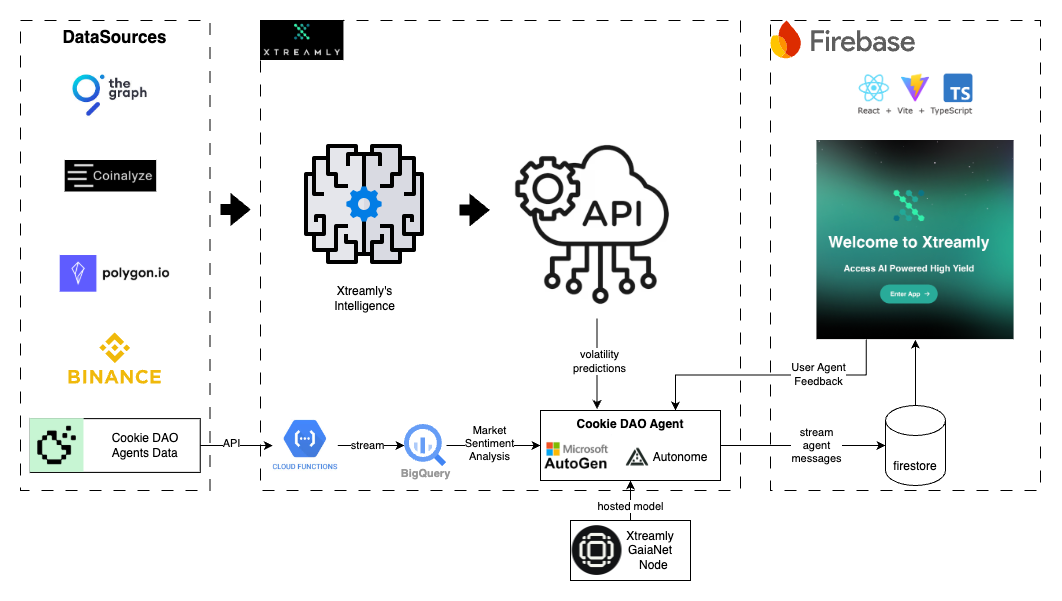
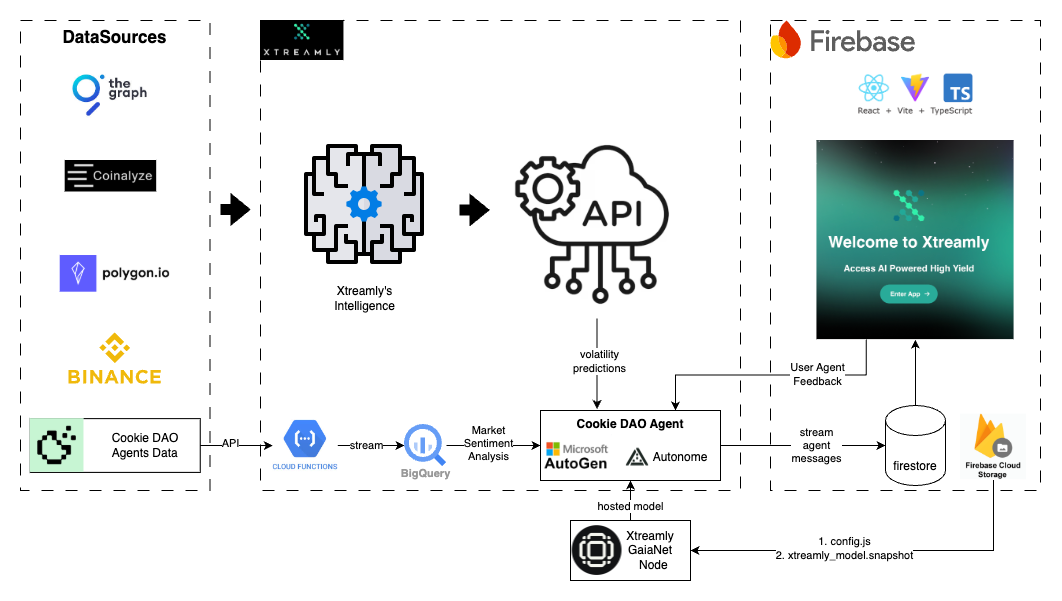
Add gaia knowledge for node

diff --git a/README.md b/README.md
@@ -69,6 +69,9 @@ Read more about how our agents operate here: [Agent Policy](documentation%2FProj
    ```
    Visit ui: http://localhost:5173/
 
+
+3. Setting up Gaia visit: [README.md](gaia%2FREADME.md)
+
 ## ⚙ Configuration
 
 - **CORS Middleware:** Configured to allow specific origins (e.g., `localhost` on common development ports).
